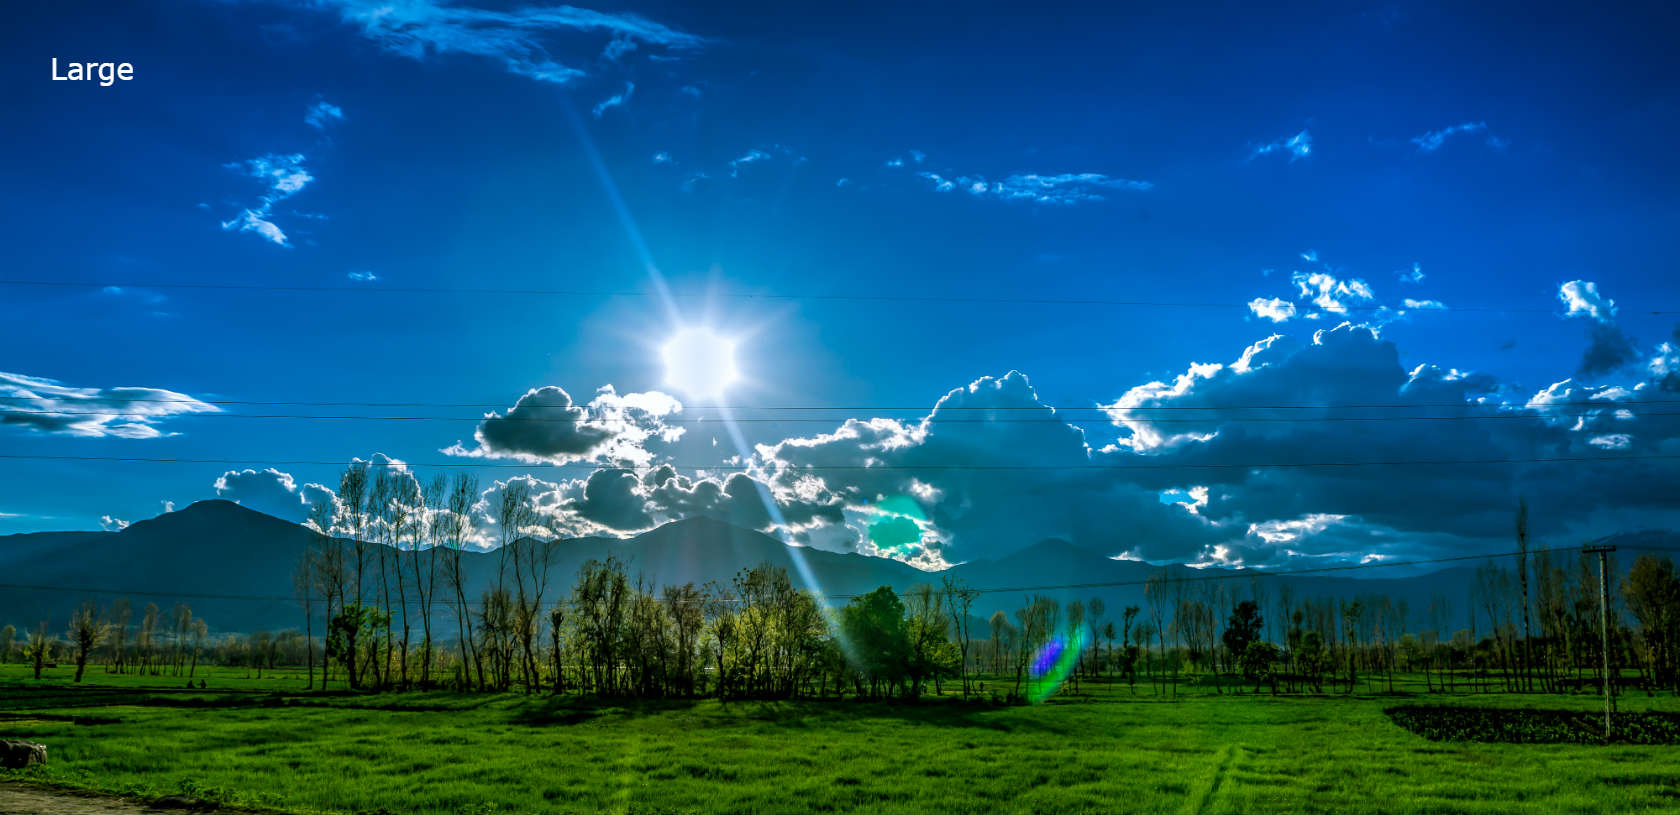
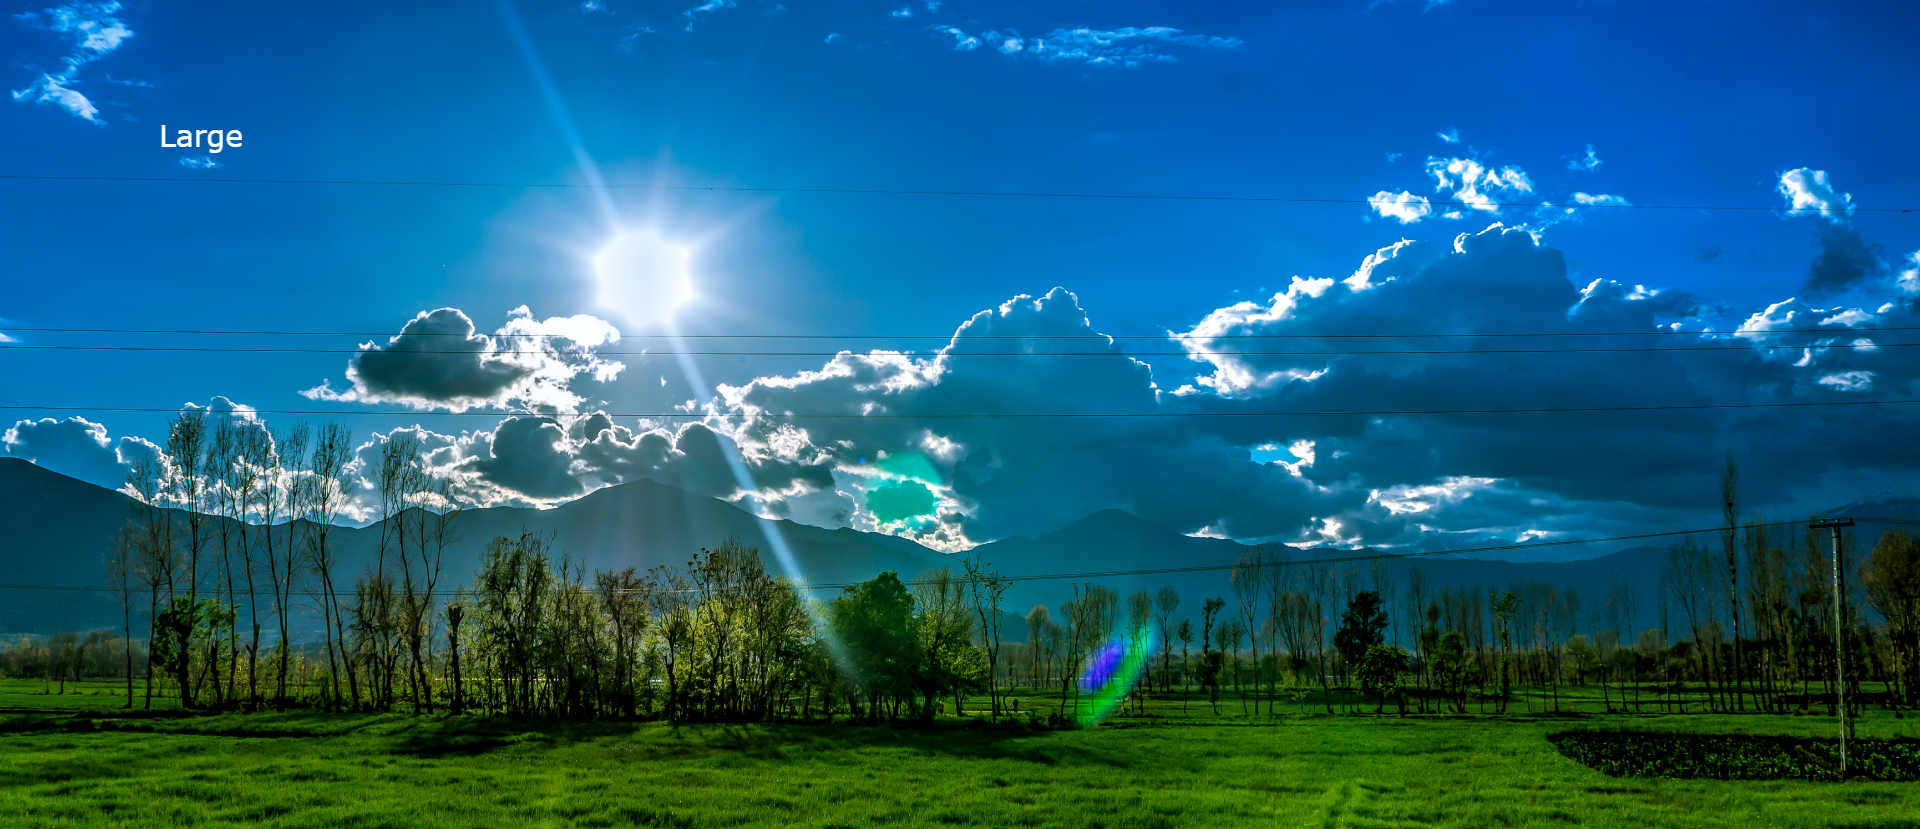
All images resized with src set.
Getting really close.

diff --git a/cit230/assignments/lesson-6/franklin-6.html b/cit230/assignments/lesson-6/franklin-6.html
@@ -16,7 +16,10 @@
 
 <body>
   <header class="clearfix">
-      <img src="images/WeatherVaneLogo.png" alt="The site logo">
+      <img src="images/WeatherVaneLogo-md.png" alt="The Weather Vane Logo"
+           srcset="images/WeatherVaneLogo-sm.png 600w,
+                   images/WeatherVaneLogo-md.png 1024w,
+                   images/WeatherVaneLogo-lg.png 1920w">
       <h1>The&nbsp;Weather&nbsp;Vane</h1>
       <div class="subheading">Keeping You Informed, Rain or Shine.</div>
   </header>
@@ -52,7 +55,14 @@
 
     <section class="current">
         <h2>Current Condition</h2>
-        <img src="images/sunny.png" alt="Sunny Weather">
+        <!-- srcset is correct only using 2 variations of the image. This is because -->
+        <!-- the small screen image is displayed large, so it can actually use the   -->
+        <!-- same image that is selected when the page uses a large width, the       -->
+        <!-- calculated pixel widths for the images were almost identicle.           -->
+        <img src="images/sunny-200px.png" alt="Sunny Weather"
+             srcset="images/sunny-200px.png 600w,
+                     images/sunny-100px.png 1024w,
+                     images/sunny-200px.png 1920w">
     </section>
 
 
@@ -93,7 +103,10 @@
 
     <article>
       <h2>Recent News</h2>
-      <img src="images/franklin_countryside.jpg" alt="Franklin Countryside">
+        <img src="images/countryside-small.jpg" alt="Franklin Countryside"
+             srcset="images/countryside-small.jpg 600w,
+                     images/countryside-medium.jpg 1024w,
+                     images/countryside-large.jpg 1920w">
       <p class="town-article">
        Franklin has broken the record for the warmest temperatures seen in years in the entire county. Our usual cold climate topping out at 79&deg;&nbsp;F for the yearly high, ongoing for many decades, has finally given us a pleasant surprise with temperatures that make it wonderfully pleasant to be outdoors. Local clothing shops that have rarely had success selling shorts cannot keep them in stock. People are going outdoors and enjoying fun in the sun. Local parks have been found to be at their full capacity every day. There is no better time to live in Franklin than right now. The local school districts have even brought up the idea of closing all schools in the disctrict and allowing a few days off in order to enjoy this miraculous weather. The last time a 90&deg;&nbsp;F temperature was registered in Franklin was July 17, 1937. If you have not had the chance to venture outside to enjoy the weather lately, please make sure to do so before it is gone. Who knows when weather this good will come again.
       </p>
